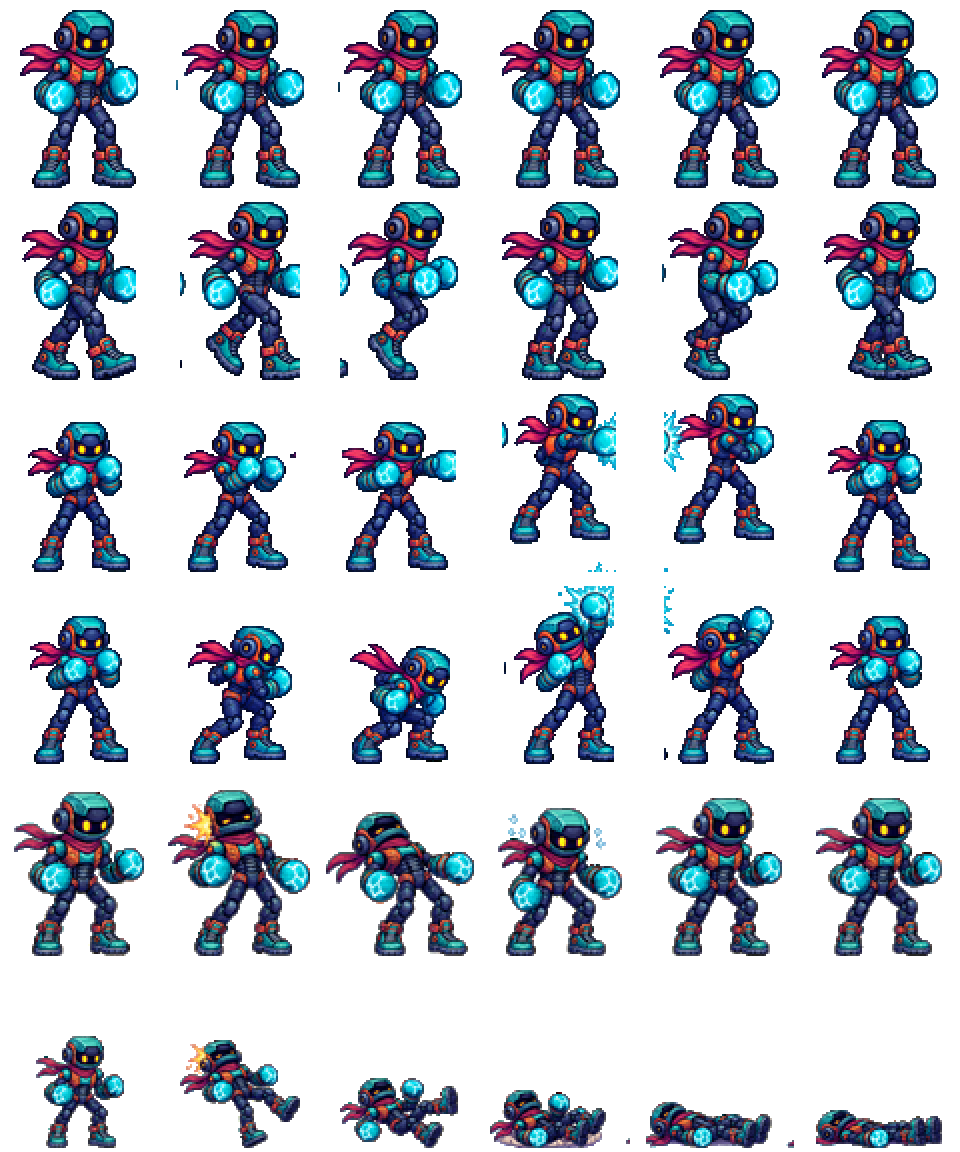
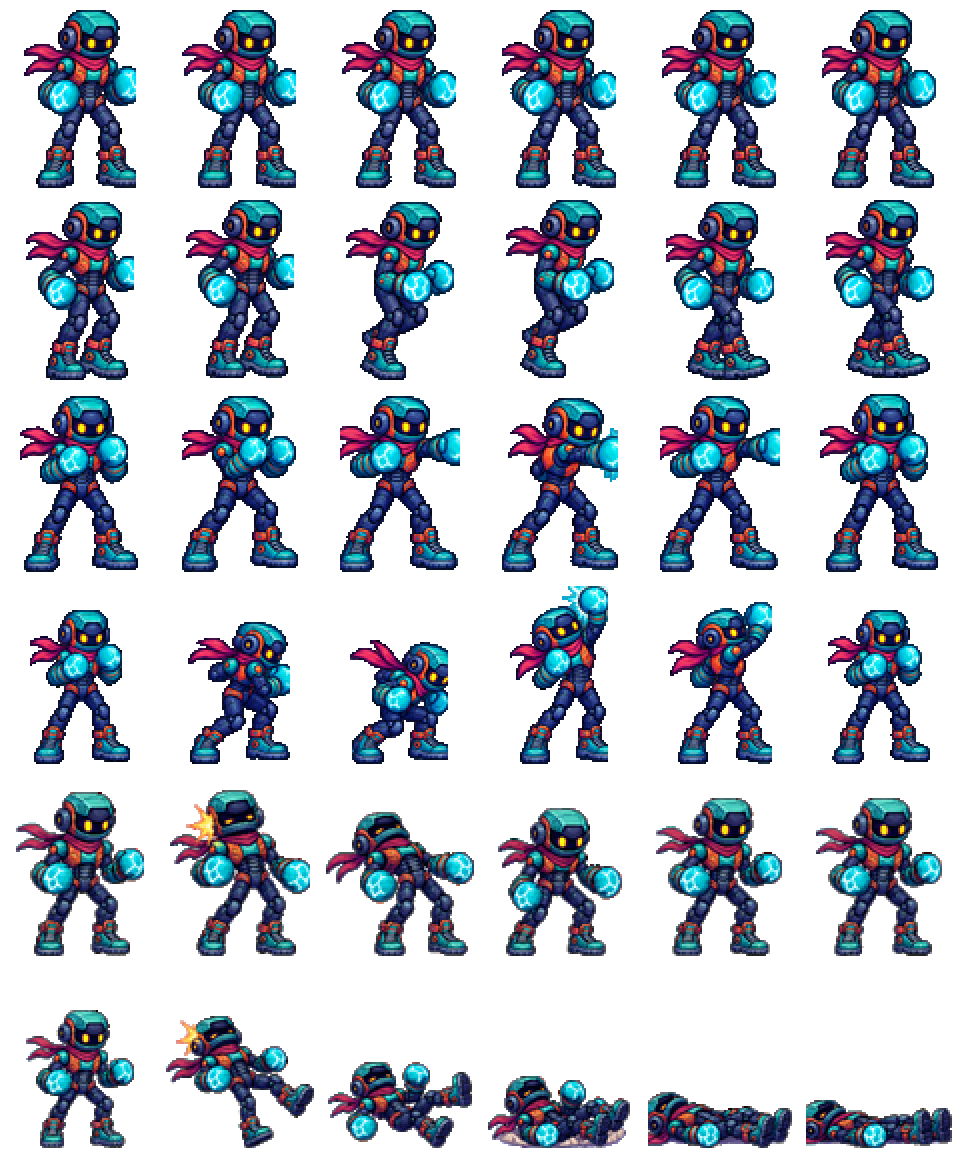
fix(assets): clean Striker animation boundaries

diff --git a/android/tools/build_striker_enemy.py b/android/tools/build_striker_enemy.py
@@ -23,6 +23,16 @@ SHEETS = (
     ("hurt_knockdown_clean.png", 4, 5),
 )
 
+# The source generator let adjacent poses overlap in two rows. Reuse the clean
+# authored poses to form coherent held timing rather than shipping a severed
+# glove/effect from the neighboring panel.
+SAFE_FRAME_REMAP = {
+    1: (3, 3, 4, 4, 5, 5),       # walk: three clean gait keys with 2px bob timing
+    2: (0, 1, 2, 3, 2, 5),       # light attack: anticipation, hit, retract
+}
+
+WALK_BOB_Y = (0, -2, 0, -2, 0, -2)
+
 
 def remove_light_checker(image: Image.Image) -> Image.Image:
     """Remove only the light neutral checker connected to the canvas edge."""
@@ -75,6 +85,65 @@ def hard_alpha(image: Image.Image) -> Image.Image:
     return rgba
 
 
+def keep_character_component(image: Image.Image) -> Image.Image:
+    """Discard panel-overflow fragments while preserving the connected fighter."""
+    rgba = image.convert("RGBA")
+    alpha = rgba.getchannel("A")
+    width, height = rgba.size
+    pixels = alpha.load()
+    seen = bytearray(width * height)
+    largest: list[tuple[int, int]] = []
+    for start_y in range(height):
+        for start_x in range(width):
+            index = start_y * width + start_x
+            if seen[index] or pixels[start_x, start_y] == 0:
+                continue
+            component: list[tuple[int, int]] = []
+            queue = deque([(start_x, start_y)])
+            seen[index] = 1
+            while queue:
+                x, y = queue.popleft()
+                component.append((x, y))
+                for nx, ny in ((x - 1, y), (x + 1, y), (x, y - 1), (x, y + 1)):
+                    if not (0 <= nx < width and 0 <= ny < height):
+                        continue
+                    neighbor = ny * width + nx
+                    if seen[neighbor] or pixels[nx, ny] == 0:
+                        continue
+                    seen[neighbor] = 1
+                    queue.append((nx, ny))
+            if len(component) > len(largest):
+                largest = component
+    assert largest, "empty character component"
+    mask = Image.new("L", rgba.size, 0)
+    mask_pixels = mask.load()
+    for x, y in largest:
+        mask_pixels[x, y] = 255
+    clean = Image.new("RGBA", rgba.size, (0, 0, 0, 0))
+    clean.paste(rgba, (0, 0), mask)
+    return clean
+
+
+def clear_panel_edges(image: Image.Image) -> Image.Image:
+    """Cut the sheet gutters before connectivity can join two neighboring poses."""
+    rgba = image.convert("RGBA")
+    inset_x = max(4, round(rgba.width * 0.05))
+    inset_y = max(4, round(rgba.height * 0.03))
+    pixels = rgba.load()
+    for y in range(rgba.height):
+        for x in range(rgba.width):
+            if x < inset_x or x >= rgba.width - inset_x \
+                    or y < inset_y or y >= rgba.height - inset_y:
+                pixels[x, y] = (0, 0, 0, 0)
+    return rgba
+
+
+def translate_cell(image: Image.Image, dx: int, dy: int) -> Image.Image:
+    shifted = Image.new("RGBA", image.size, (0, 0, 0, 0))
+    shifted.alpha_composite(image, (dx, dy))
+    return shifted
+
+
 def split_sheet(path: Path) -> list[list[Image.Image]]:
     image = Image.open(path)
     if image.mode != "RGBA":
@@ -89,7 +158,9 @@ def split_sheet(path: Path) -> list[list[Image.Image]]:
         for column in range(COLS):
             left = round(image.width * column / COLS)
             right = round(image.width * (column + 1) / COLS)
-            frame = hard_alpha(image.crop((left, top, right, bottom)))
+            frame = keep_character_component(
+                clear_panel_edges(hard_alpha(image.crop((left, top, right, bottom))))
+            )
             assert frame.getchannel("A").getbbox(), (path.name, row, column, "empty")
             frames.append(frame)
         result.append(frames)
@@ -118,7 +189,7 @@ def normalize_row(frames: list[Image.Image]) -> list[Image.Image]:
         y = CELL_SIZE[1] - 4 - sprite.height
         assert x >= 4 and y >= 4, (sprite.size, x, y)
         cell.alpha_composite(sprite, (x, y))
-        normalized.append(cell)
+        normalized.append(keep_character_component(cell))
     return normalized
 
 
@@ -148,6 +219,14 @@ def main() -> None:
         rows[first_row] = normalize_row(source_rows[0])
         rows[second_row] = normalize_row(source_rows[1])
     assert all(rows)
+
+    for row, mapping in SAFE_FRAME_REMAP.items():
+        source_frames = rows[row]
+        assert source_frames is not None
+        rows[row] = [source_frames[index].copy() for index in mapping]
+    assert rows[1] is not None
+    rows[1] = [translate_cell(frame, 0, WALK_BOB_Y[index])
+               for index, frame in enumerate(rows[1])]
 
     atlas = Image.new("RGBA", ATLAS_SIZE, (0, 0, 0, 0))
     for row, frames in enumerate(rows):

diff --git a/android/tools/test_striker_enemy_contract.py b/android/tools/test_striker_enemy_contract.py
@@ -1,6 +1,7 @@
 #!/usr/bin/env python3
 """Release guard for the first expanded enemy archetype."""
 
+from collections import deque
 from pathlib import Path
 from PIL import Image
 
@@ -42,10 +43,40 @@ clustered = atlas.resize((480, 576), Image.Resampling.NEAREST).resize(
 )
 assert clustered.tobytes() == atlas.tobytes(), "Striker atlas lost exact 2px clusters"
 for row in range(6):
-    hashes = {
-        atlas.crop((column * 160, row * 192, (column + 1) * 160, (row + 1) * 192)).tobytes()
+    cells = [
+        atlas.crop((column * 160, row * 192, (column + 1) * 160, (row + 1) * 192))
         for column in range(6)
+    ]
+    hashes = {
+        cell.tobytes() for cell in cells
     }
     assert len(hashes) >= 3, (row, "static Striker animation")
+    for column, cell in enumerate(cells):
+        alpha = cell.getchannel("A")
+        pixels = alpha.load()
+        seen = set()
+        components = 0
+        for y in range(192):
+            for x in range(160):
+                if pixels[x, y] == 0 or (x, y) in seen:
+                    continue
+                components += 1
+                queue = deque([(x, y)])
+                seen.add((x, y))
+                while queue:
+                    px, py = queue.popleft()
+                    for nx, ny in ((px - 1, py), (px + 1, py), (px, py - 1), (px, py + 1)):
+                        if (0 <= nx < 160 and 0 <= ny < 192
+                                and pixels[nx, ny] and (nx, ny) not in seen):
+                            seen.add((nx, ny))
+                            queue.append((nx, ny))
+        assert components == 1, (row, column, "detached panel-overflow fragments", components)
 
-print("Striker enemy contract: PASS (runtime, 36 frames, TV variant, 2px clusters)")
+walk_cells = [atlas.crop((column * 160, 192, (column + 1) * 160, 384)).tobytes()
+              for column in range(6)]
+assert len(set(walk_cells)) == 6, "walk bob timing must keep six visible frames"
+attack_cells = [atlas.crop((column * 160, 384, (column + 1) * 160, 576)).tobytes()
+                for column in range(6)]
+assert attack_cells[2] == attack_cells[4], "attack retract must reuse clean authored key"
+
+print("Striker enemy contract: PASS (36 clean connected frames, TV variant, 2px clusters)")

diff --git a/PROJECT_HISTORY_AR.md b/PROJECT_HISTORY_AR.md
@@ -177,6 +177,23 @@
 
 ## سجل الطلبات والتعديلات المشترك
 
+### 2026-08-21-21 — التفاف أجزاء Striker بين خلايا التحريك
+
+- المنفذ: Codex
+- طلب المستخدم: العدو الجديد يُقص من الأعلى وتظهر أجزاؤه في الأسفل، كما تختفي
+  أجزاء من اليمين/اليسار وتظهر من الجهة المقابلة أثناء الحركة.
+- الحالة: قيد التنفيذ.
+- نقطة البداية: `v0.29.1-alpha` / commit `1b42008`.
+- ما سيتم: فحص أطلس Striker وخلايا 160×192 وقص المصدر والرسم المحسن للتلفاز،
+  ثم إعادة تعبئة الإطارات بهوامش آمنة واختبار كل الصفوف قبل Release إصلاح.
+- الملفات المعدلة حتى الآن:
+  - `PROJECT_HISTORY_AR.md`
+- الاختبارات: قيد التنفيذ.
+- Release: لا يوجد بعد.
+- ملاحظات/مخاطر: الوصف يتطابق مع تجاوز أجزاء الرسمة حدود خلية ثابتة أو قص خاطئ
+  في نسخة TV؛ يجب فحص الأصل والنسخة المحسنة والمحرك بدل إخفاء العرض فقط.
+- التالي: تحديد طبقة الخلل، إصلاحها، تشغيل QA المرئي والعقدي وRuntime، ثم النشر.
+
 ### 2026-08-21-20 — تراجع DualSense على Nvidia Shield Pro
 
 - المنفذ: Codex
